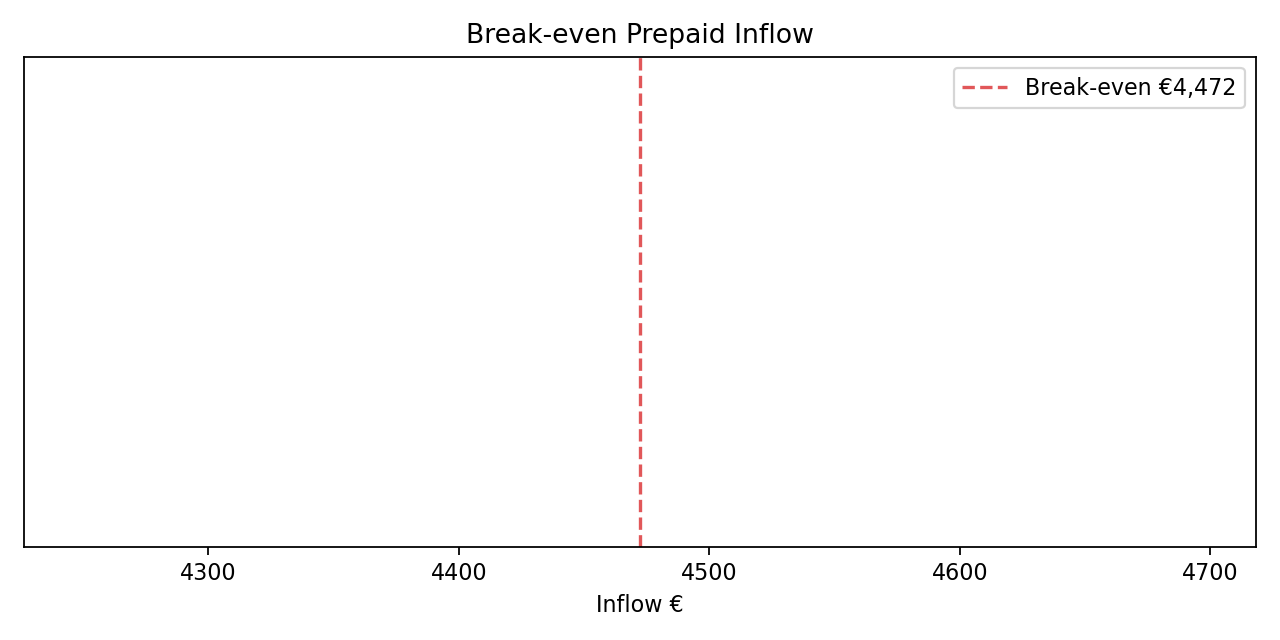
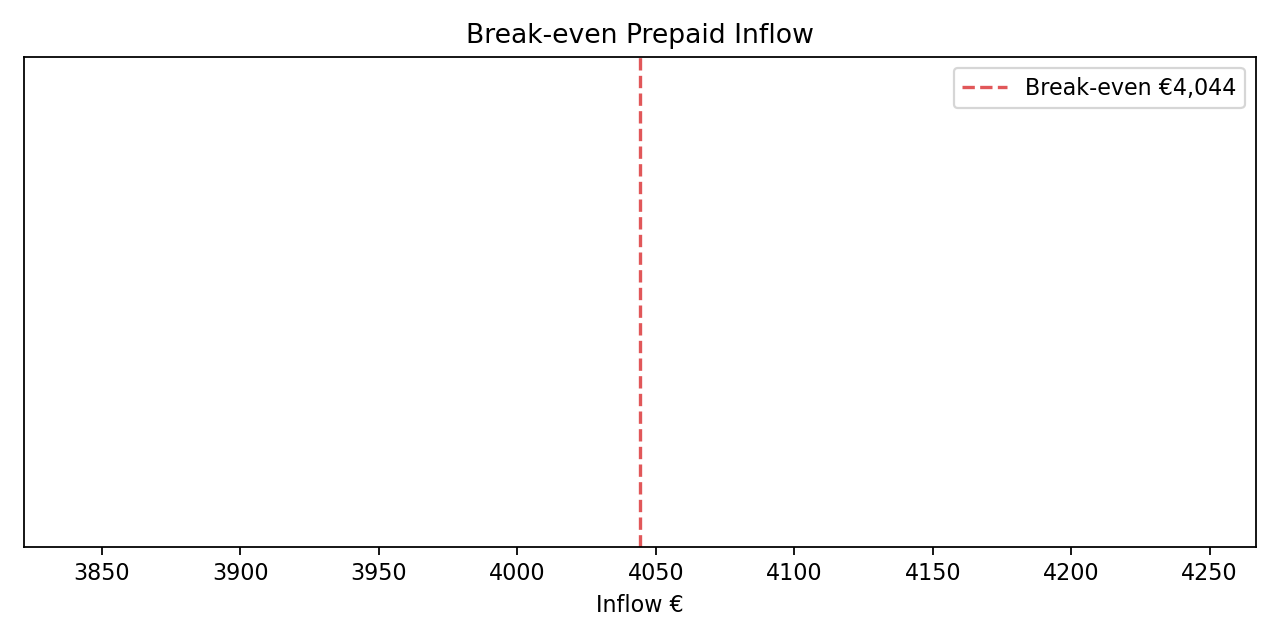
feat: add per-model price optimization with configurable elasticity bounds

diff --git a/.business/financieelplan_NL_nl/.002-draft/finance_engine/engine_pkg/steps/compute.py b/.business/financieelplan_NL_nl/.002-draft/finance_engine/engine_pkg/steps/compute.py
@@ -163,13 +163,39 @@ def compute_all(
         # Acquisition inputs are passed via compute_all caller; fallback to empty
         acquisition: Dict[str, Any] = get(scenarios, ["__acquisition"], {})  # late-bound by orchestrator wrapper
         funnel_overrides: Dict[str, Any] = get(scenarios, ["__funnel_overrides"], {})
-        m_worst, mk_worst = simulate_m_tokens_from_funnel(acquisition=acquisition, funnel_overrides=funnel_overrides, case="worst")
-        m_base, mk_base = simulate_m_tokens_from_funnel(acquisition=acquisition, funnel_overrides=funnel_overrides, case="base")
-        m_best, mk_best = simulate_m_tokens_from_funnel(acquisition=acquisition, funnel_overrides=funnel_overrides, case="best")
+        seasonality: Dict[str, Any] = get(scenarios, ["__seasonality"], {})
+        dr = seasonality.get("diminishing_returns") or {}
+        try:
+            cpc_slope = float(dr.get("cpc_slope_per_extra_1k_eur", 0.0))
+        except Exception:
+            cpc_slope = 0.0
+        m_worst, mk_worst = simulate_m_tokens_from_funnel(
+            acquisition=acquisition,
+            funnel_overrides=funnel_overrides,
+            case="worst",
+            cpc_slope_per_extra_1k_eur=cpc_slope,
+        )
+        m_base, mk_base = simulate_m_tokens_from_funnel(
+            acquisition=acquisition,
+            funnel_overrides=funnel_overrides,
+            case="base",
+            cpc_slope_per_extra_1k_eur=cpc_slope,
+        )
+        m_best, mk_best = simulate_m_tokens_from_funnel(
+            acquisition=acquisition,
+            funnel_overrides=funnel_overrides,
+            case="best",
+            cpc_slope_per_extra_1k_eur=cpc_slope,
+        )
         worst_base_best = (m_worst, m_base, m_best)
         marketing_overrides = {"worst": mk_worst, "base": mk_base, "best": mk_best}
         # Detailed base-case funnel and unit economics
-        funnel_details_base = simulate_funnel_details(acquisition=acquisition, funnel_overrides=funnel_overrides, case="base")
+        funnel_details_base = simulate_funnel_details(
+            acquisition=acquisition,
+            funnel_overrides=funnel_overrides,
+            case="base",
+            cpc_slope_per_extra_1k_eur=cpc_slope,
+        )
 
     # Compute public scenarios (optionally with marketing overrides)
     public_df, public_tpl = compute_public_scenarios(

diff --git a/.business/financieelplan_NL_nl/.002-draft/finance_engine/compute/pricing.py b/.business/financieelplan_NL_nl/.002-draft/finance_engine/compute/pricing.py
@@ -213,6 +213,55 @@ def _optimizer_settings(cfg: Dict[str, Any]) -> Dict[str, Any]:
     }
 
 
+def _optimizer_settings_for_model(cfg: Dict[str, Any], model: str) -> Dict[str, Any]:
+    """Merge global optimizer settings with per-SKU overrides when present."""
+    base = _optimizer_settings(cfg)
+    pol = _policy_from_cfg(cfg)
+    opt = pol.get("optimize") or {}
+    per = opt.get("per_sku") or {}
+    # Try multiple key variants to find a match
+    keys_to_try = [
+        model,
+        _normalize_model_name(model),
+        model.replace(".", "-"),
+        model.replace("-", "."),
+    ]
+    node = None
+    for k in keys_to_try:
+        if isinstance(per, dict) and k in per and isinstance(per[k], dict):
+            node = per[k]
+            break
+    if not node:
+        return base
+    merged = dict(base)
+    if "enabled" in node:
+        try:
+            merged["enabled"] = bool(node.get("enabled"))
+        except Exception:
+            pass
+    if "elasticity_epsilon" in node:
+        try:
+            merged["epsilon"] = float(node.get("elasticity_epsilon"))
+        except Exception:
+            pass
+    if "reference_per_1k_tokens" in node:
+        try:
+            v = node.get("reference_per_1k_tokens")
+            merged["ref_per_1k"] = (None if v in (None, "") else float(v))
+        except Exception:
+            pass
+    if "bounds_per_1k" in node:
+        b = node.get("bounds_per_1k")
+        if isinstance(b, (list, tuple)) and len(b) == 2:
+            merged["bounds_per_1k"] = b
+    if "grid_step_per_1k" in node:
+        try:
+            merged["grid_step_per_1k"] = float(node.get("grid_step_per_1k"))
+        except Exception:
+            pass
+    return merged
+
+
 def _optimize_price_per_1m(
     *,
     cost_per_1m_med: float,
@@ -226,7 +275,7 @@ def _optimize_price_per_1m(
     Constraints: floor/cap from policy; competitor caps (if enabled) narrow the cap; optional custom bounds.
     """
     pol = _policy_from_cfg(cfg)
-    opt = _optimizer_settings(cfg)
+    opt = _optimizer_settings_for_model(cfg, model)
     if not opt["enabled"]:
         return _sell_per_1m_from_cost(cost_per_1m_med, cfg)
 

diff --git a/.business/financieelplan_NL_nl/.002-draft/outputs/financial_plan.md b/.business/financieelplan_NL_nl/.002-draft/outputs/financial_plan.md
@@ -10,7 +10,7 @@
 
 **Revenue model:**
 
-- **Public Tap:** per-model prijzen berekend uit beleidsdoel (target marge 45%) en gemeten kosten; blended ≈ €0.15 per 1k tokens.  
+- **Public Tap:** per-model prijzen berekend uit beleidsdoel (target marge 45%) en gemeten kosten; blended ≈ €1.4333 per 1k tokens.  
 - **Private Tap:** prepaid GPU-uren met opslag (providerkost + 50.0%) + management fee.  
 
 **Safeguards:**
@@ -21,7 +21,7 @@
 
 **Targets:**
 
-- **Required monthly prepaid inflow (baseline):** **€4472.3190753916515**  
+- **Required monthly prepaid inflow (baseline):** **€4044.3047526704204**  
 - **Runway target:** 6 months
 
 ### 0.1 Diagram — Prepaid Model Flow (Mermaid)
@@ -98,9 +98,9 @@ For each model offered on the Public Tap:
 
 | Model | GPU (median) | Cost €/1M (min) | Cost €/1M (median) | Cost €/1M (max) | Sell €/1M | Gross Margin €/1M | Gross Margin % |
 |-------|--------------|----------------:|-------------------:|----------------:|----------:|------------------:|---------------:|
-| Llama-3-1-8B | A100 40GB (PCIe) | 0.13 | 0.13 | 0.13 | 150.00 | 149.87 | 99.91 |
-| Mixtral-8x7B | H100 80GB (PCIe/SXM) | 13.40 | 13.40 | 13.40 | 150.00 | 136.60 | 91.07 |
-| Qwen2-5-7B | A100 40GB (PCIe) | 0.37 | 0.37 | 0.37 | 150.00 | 149.63 | 99.75 |
+| Llama-3-1-8B | A100 40GB (PCIe) | 0.13 | 0.13 | 0.13 | 1200.00 | 1199.87 | 99.99 |
+| Mixtral-8x7B | H100 80GB (PCIe/SXM) | 13.40 | 13.40 | 13.40 | 2000.00 | 1986.60 | 99.33 |
+| Qwen2-5-7B | A100 40GB (PCIe) | 0.37 | 0.37 | 0.37 | 1100.00 | 1099.63 | 99.97 |
 
 #### 2.1.1 Graph — Model Margins
 
@@ -171,7 +171,7 @@ The following scenarios assume:
 - All revenue is prepaid.  
 - Costs scale linearly with tokens served.  
 - Provider costs use **median GPU rental prices** (FX buffer applied).  
-- Marketing allocation: 13% of inflow.  
+- Marketing allocation: 7% of revenue.  
 
 ---
 
@@ -179,9 +179,9 @@ The following scenarios assume:
 
 | Case      | Tokens Sold (M) | Revenue (€) | COGS (€) | Gross Margin (€) | Gross Margin % | Fixed+Loan (€) | Marketing (€) | Net Result (€) |
 |-----------|----------------:|------------:|---------:|-----------------:|---------------:|---------------:|--------------:|---------------:|
-| Worst     | 101.868 | 15280.2 | 471.86 | 14808.34 | 96.91 | 3748.75 | 2000.0 | **9059.59** |
-| Baseline  | 101.868 | 15280.2 | 471.86 | 14808.34 | 96.91 | 3748.75 | 2000.0 | **9059.59** |
-| Best      | 101.868 | 15280.2 | 471.86 | 14808.34 | 96.91 | 3748.75 | 2000.0 | **9059.59** |
+| Worst     | 19.968 | 28620.8 | 92.49 | 28528.31 | 99.68 | 3748.75 | 2000.0 | **22779.56** |
+| Baseline  | 19.968 | 28620.8 | 92.49 | 28528.31 | 99.68 | 3748.75 | 2000.0 | **22779.56** |
+| Best      | 19.968 | 28620.8 | 92.49 | 28528.31 | 99.68 | 3748.75 | 2000.0 | **22779.56** |
 
 #### 3.1.1 Chart — Scenario Components
 
@@ -191,8 +191,8 @@ The following scenarios assume:
 
 ```mermaid
 pie title Baseline Monthly Components
-  "Revenue €15280.2" : 15280.2
-  "COGS €471.86" : 471.86
+  "Revenue €28620.8" : 28620.8
+  "COGS €92.49" : 92.49
   "Marketing €2000.0" : 2000.0
   "Fixed+Loan €3748.75" : 3748.75
 ```
@@ -202,8 +202,8 @@ pie title Baseline Monthly Components
 ### 3.2 Break-even
 
 - **Total fixed monthly costs (personal + business + loan):** €3748.75  
-- **Required margin to break even (fixed + marketing):** €4334.124415962049  
-- **Required prepaid inflow:** €4472.3190753916515  
+- **Required margin to break even (fixed + marketing):** €4031.3629774618753  
+- **Required prepaid inflow:** €4044.3047526704204  
 
 #### 3.2.1 Chart — Break-even
 
@@ -300,9 +300,9 @@ All revenue is prepaid; no refunds. Costs scale linearly with demand.
 
 | Case     | Public Revenue (€) | Private Revenue (€) | Total Revenue (€) | Total COGS (€) | Gross Margin (€) | Fixed+Loan (€) | Marketing (€) | Net (€) |
 |----------|-------------------:|--------------------:|------------------:|---------------:|-----------------:|---------------:|--------------:|--------:|
-| Worst    | 15280.2 | 0.0 | 15280.2 | 471.86 | 14808.34 | 3748.75 | 2000.0 | **9059.59** |
-| Baseline | 15280.2 | 0.0 | 15280.2 | 471.86 | 14808.34 | 3748.75 | 2000.0 | **9059.59** |
-| Best     | 15280.2 | 0.0 | 15280.2 | 471.86 | 14808.34 | 3748.75 | 2000.0 | **9059.59** |
+| Worst    | 28620.8 | 0.0 | 28620.8 | 92.49 | 28528.31 | 3748.75 | 2000.0 | **22779.56** |
+| Baseline | 28620.8 | 0.0 | 28620.8 | 92.49 | 28528.31 | 3748.75 | 2000.0 | **22779.56** |
+| Best     | 28620.8 | 0.0 | 28620.8 | 92.49 | 28528.31 | 3748.75 | 2000.0 | **22779.56** |
 
 ---
 
@@ -310,9 +310,9 @@ All revenue is prepaid; no refunds. Costs scale linearly with demand.
 
 | Case     | Total Revenue (€) | Total COGS (€) | Gross Margin (€) | Fixed+Loan (€) | Marketing (€) | Net (€) |
 |----------|------------------:|---------------:|-----------------:|---------------:|--------------:|--------:|
-| Worst    |  | 5662.32 | 177700.08000000002 | 44985.0 | 24000.0 | **108715.08** |
-| Baseline |  | 5662.32 | 177700.08000000002 | 44985.0 | 24000.0 | **108715.08** |
-| Best     |  | 5662.32 | 177700.08000000002 | 44985.0 | 24000.0 | **108715.08** |
+| Worst    |  | 1109.8799999999999 | 342339.72000000003 | 44985.0 | 24000.0 | **273354.72000000003** |
+| Baseline |  | 1109.8799999999999 | 342339.72000000003 | 44985.0 | 24000.0 | **273354.72000000003** |
+| Best     |  | 1109.8799999999999 | 342339.72000000003 | 44985.0 | 24000.0 | **273354.72000000003** |
 
 ---
 
@@ -320,16 +320,16 @@ All revenue is prepaid; no refunds. Costs scale linearly with demand.
 
 | Case     | Total Revenue (€) | Total COGS (€) | Gross Margin (€) | Fixed+Loan (€) | Marketing (€) | Net (€) |
 |----------|------------------:|---------------:|-----------------:|---------------:|--------------:|--------:|
-| Worst    |  | 28311.600000000002 | 888500.4 | 224925.0 | 120000.0 | **543575.4** |
-| Baseline |  | 28311.600000000002 | 888500.4 | 224925.0 | 120000.0 | **543575.4** |
-| Best     |  | 28311.600000000002 | 888500.4 | 224925.0 | 120000.0 | **543575.4** |
+| Worst    |  | 5549.4 | 1711698.6 | 224925.0 | 120000.0 | **1366773.6** |
+| Baseline |  | 5549.4 | 1711698.6 | 224925.0 | 120000.0 | **1366773.6** |
+| Best     |  | 5549.4 | 1711698.6 | 224925.0 | 120000.0 | **1366773.6** |
 
 ---
 
 ### 5.4 Notes
 
 - Fixed+Loan already includes **monthly loan repayment €748.75** × 60 months.  
-- Marketing allocation: 13% of inflows reserved each period.  
+- Marketing allocation: 7% of revenue reserved each period.  
 - Net values reflect all obligations — showing repayment ability across full loan term.  
 
 ---
@@ -509,7 +509,7 @@ This business model is designed to minimize financial risk:
 ### 9.3 Engine Version
 
 - Finance Engine: vv1.0.0  
-- Last generated: 2025-09-27T21:28:11Z  
+- Last generated: 2025-09-27T22:21:59Z  
 
 ---
 

diff --git a/.business/financieelplan_NL_nl/.002-draft/template.md b/.business/financieelplan_NL_nl/.002-draft/template.md
@@ -173,7 +173,7 @@ The following scenarios assume:
 - All revenue is prepaid.  
 - Costs scale linearly with tokens served.  
 - Provider costs use **median GPU rental prices** (FX buffer applied).  
-- Marketing allocation: {{finance.marketing_allocation_pct_of_inflow}}% of inflow.  
+- Marketing allocation: {{finance.marketing_allocation_pct_of_inflow}}% of revenue.  
 
 ---
 
@@ -321,7 +321,7 @@ All revenue is prepaid; no refunds. Costs scale linearly with demand.
 ### 5.4 Notes
 
 - Fixed+Loan already includes **monthly loan repayment €{{loan.monthly_payment_eur}}** × 60 months.  
-- Marketing allocation: {{finance.marketing_allocation_pct_of_inflow}}% of inflows reserved each period.  
+- Marketing allocation: {{finance.marketing_allocation_pct_of_inflow}}% of revenue reserved each period.  
 - Net values reflect all obligations — showing repayment ability across full loan term.  
 
 ---

diff --git a/.business/financieelplan_NL_nl/.002-draft/outputs/curated_catalog.md b/.business/financieelplan_NL_nl/.002-draft/outputs/curated_catalog.md
@@ -4,6 +4,6 @@ Minimum gross margin threshold (worst-case): 25.0%
 
 | Model | GPU | TPS | Sell €/1M | Gross Margin % (min) | Gross Margin % (med) |
 |-------|-----|-----|-----------:|----------------------:|----------------------:|
-| Llama-3-1-8B | A100 40GB (PCIe) | 2459.0 | 150.0 | 99.91% | 99.91% |
-| Qwen2-5-7B | A100 40GB (PCIe) | 877.6 | 150.0 | 99.75% | 99.75% |
-| Mixtral-8x7B | H100 80GB (PCIe/SXM) | 62.5 | 150.0 | 91.07% | 91.07% |
+| Llama-3-1-8B | A100 40GB (PCIe) | 2459.0 | 1200.0 | 99.99% | 99.99% |
+| Qwen2-5-7B | A100 40GB (PCIe) | 877.6 | 1100.0 | 99.97% | 99.97% |
+| Mixtral-8x7B | H100 80GB (PCIe/SXM) | 62.5 | 2000.0 | 99.33% | 99.33% |

diff --git a/.business/financieelplan_NL_nl/.002-draft/outputs/run_summary.md b/.business/financieelplan_NL_nl/.002-draft/outputs/run_summary.md
@@ -27,4 +27,4 @@ Warnings:
 - units: public_tap unit(s) observed: 1k_tokens
 # Run Summary
 - Engine version: v1.0.0
-- Run at (UTC): 2025-09-27T21:28:10Z
+- Run at (UTC): 2025-09-27T22:21:58Z
